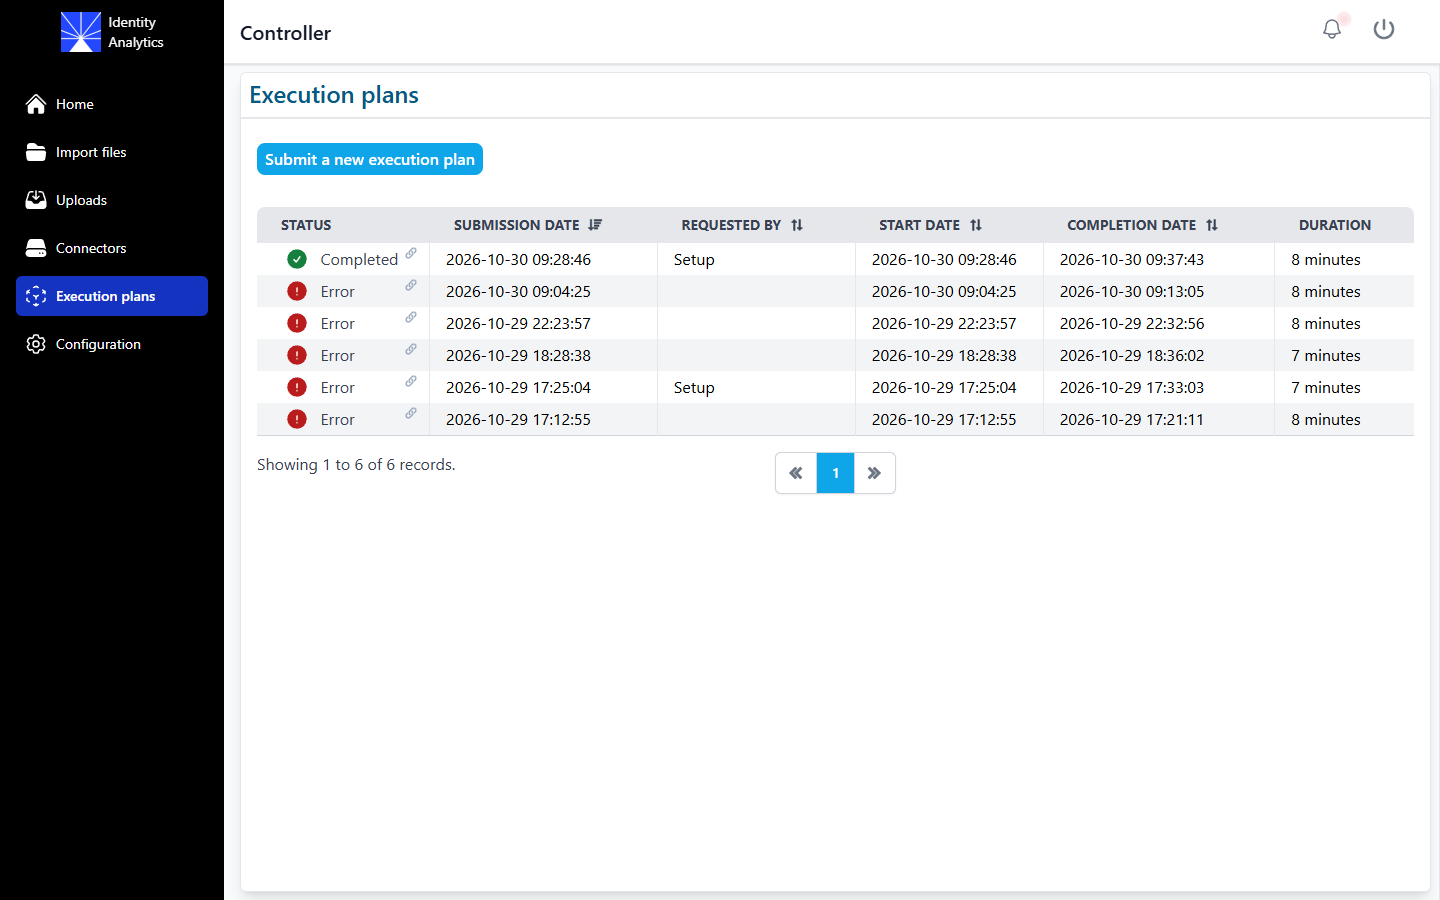
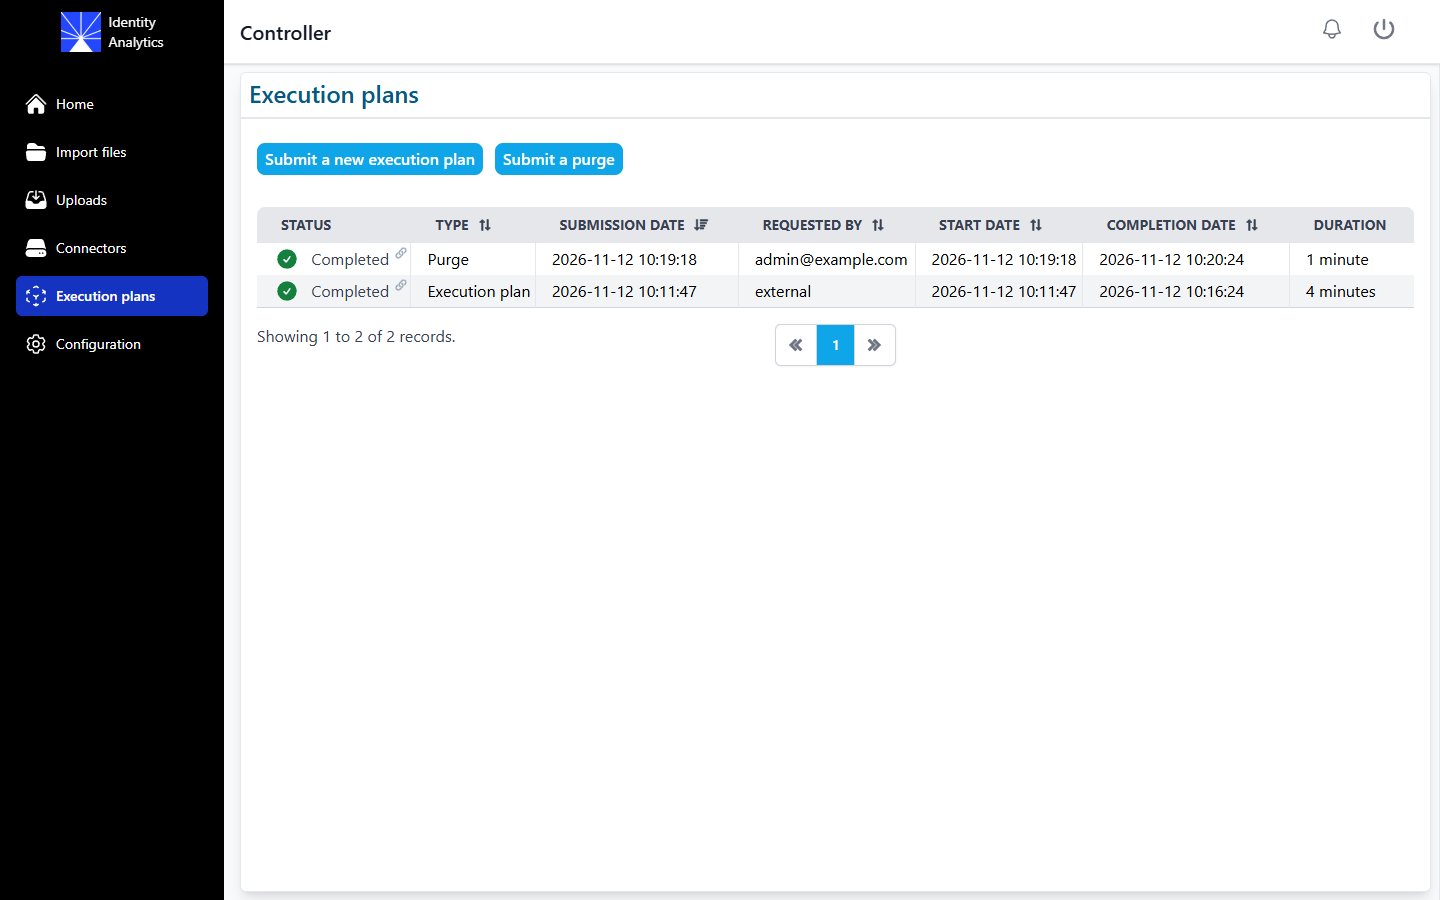
SQ-2141: Document the 3.8 purge, database checks and project synchronization
Checked on IDA 3.8.0 / Shared Services 3.6.0, with new screenshots.

- Configuration interface: Purge page, purge scheduling (UTC), Database
  pages (Health Check, Maintenance; built-in database only, restart of
  ops-manager when they show "not available"), Project synchronization
  on the Git Project page, purge settings in "Which setting wins".
- Controller: Submit a purge, Type column, Error vs Aborted, one run at
  a time, notifications for purges.
- Data loading: execution plan API, not published by default.

Changed region(s): [[0.1875, 0.1556, 0.875, 0.56], [0.9062, 0.2178, 0.9688, 0.4978], [0.4688, 0.4044, 0.5, 0.4356]]

diff --git a/documentation/igrc-platform/self-managed/06-configuration/01-config-ui.md b/documentation/igrc-platform/self-managed/06-configuration/01-config-ui.md
@@ -5,7 +5,7 @@ description: Use the configuration interface of a Self-Managed Identity Analytic
 
 # Identity Analytics configuration interface
 
-The configuration interface holds the functional and technical settings of an instance that are not set by the Helm values: the project repository, the emails of the portal and the batch, the schedules, the Identity Data Management connection and the portal debugging.
+The configuration interface holds the functional and technical settings of an instance that are not set by the Helm values: the project repository, the emails of the portal and the batch, the purge of the timeslots, the schedules, the database checks, the Identity Data Management connection and the portal debugging.
 
 ## First connection
 
@@ -27,6 +27,7 @@ Some settings can be set both in the Helm values and in the configuration interf
 | Git repository of the project | Values `git.default.*` | The values are written again and an immediate Git synchronisation is triggered. |
 | Other Git repository selected in the configuration interface | Configuration interface | Kept: the instance keeps using the repository selected in the interface. |
 | Git synchronisation schedule | Values `gitServer.defaultCron`, first installation only | Not written again. See [Project changes](../11-operations/05-project-changes.md). |
+| Purge settings and purge schedule | Values `purge.*` and `scheduling.purge.cron`, first installation only | Not written again: change them on the **Purge** and **Scheduling** pages. |
 | Identity Data Management (RadiantOne) connection | Values, first installation only | Not written again: later changes made in the configuration interface are kept. |
 | License | Values `global.license` (base64), or `global.licenseFile` | The values are applied: to renew the license, run `helm upgrade` with the new license. `global.license` wins over `global.licenseFile`: if your values file contains `global.license`, replace it there. The portal, the batch and the configuration service restart and load it. |
 | CPU, memory and Java heap of the pods | Values (`resources`, `jvm.memory` of each component) | The values are applied. |
@@ -49,7 +50,7 @@ The header of every page has three controls:
 
 ![Configuration home page](images/config-interface/config-ui-home.png "Configuration home page")
 
-The home page shows one tile per page: **Git Project**, **Mail**, **Batch**, **Scheduling**, **Identity Data Management** and **Portal**. A tile shows a warning when its page has missing or invalid settings.
+The home page shows one tile per page: **Database**, **Git Project**, **Mail**, **Batch**, **Purge**, **Scheduling**, **Identity Data Management** and **Portal**. A tile shows a warning when its page has missing or invalid settings.
 
 ## Git Project
 
@@ -67,6 +68,8 @@ This page selects the Git repository of the project.
 - **Username**: the account used to read the repository. The password is requested when you click **Test and save**.
 - **Project directory**: the folder of the repository that contains the project, `brainwave` by default.
 - **Connection test** checks the connection to the branch with these settings. **Test and save** runs the same test and saves the settings only if it succeeds.
+
+**Project synchronization** fetches the project from the repository on a schedule. **Sync now** fetches it at once. **Last synchronized at** shows the commit of the last synchronization. The portal keeps running the version it started with: click **Restart portal** to load the new version.
 
 See [Project repository](../02-prerequisites.md#project-repository) for the available repositories and credentials.
 
@@ -86,6 +89,15 @@ This page controls the emails sent by the portal and the batch. The SMTP server 
 
 **Technical Configuration Name** is the technical configuration of the project used to run the execution plans (`docker` by default).
 
+## Purge
+
+![Purge page](images/config-interface/config-ui-purge.png "Purge page")
+
+This page sets what a purge deletes. It does not start a purge: start one from the controller (**Execution plans**, **Submit a purge**) or on a schedule (**Scheduling** page).
+
+- **Type**: **Purge policy** applies the retention policy of the project; **Legacy arguments** keeps a number of timeslots or days, or deletes the timeslots in given states. It applies to purges started outside an execution plan.
+- **After a scheduled execution plan**: **Purge hidden timeslots** and **Apply the purge policy**, both on by default. Uncheck them so that a scheduled plan does not purge. An execution plan started by hand never purges.
+
 ## Scheduling
 
 ![Scheduling page](images/config-interface/config-ui-scheduling-enabled.png "Scheduling page")
@@ -95,7 +107,10 @@ Each switch enables a recurring task; set its frequency with **Every** (day or h
 - **batch scheduling**: starts an execution plan.
 - **Extraction scheduling**: runs the connectors declared in the portal.
 - **Portal update scheduling**: restarts the portal, so that it loads the last synchronised version of the project (see [Project changes](../11-operations/05-project-changes.md)).
+- **Purge scheduling**: starts a purge, with the settings of the **Purge** page.
 - **Secure portal stop timeout (ms)**: when the portal stops, the time given to the ongoing tasks to complete before the portal is forced to stop.
+
+The times are in UTC: the page shows the current time in UTC and on your computer.
 
 > [!note] Spread the schedules so that they do not overlap: an execution plan can take a long time, and the portal should not restart during a plan.
 
@@ -117,3 +132,17 @@ The settings of this page are saved only when the corresponding test succeeds.
 ![Portal page](images/config-interface/config-ui-portal.png "Portal page")
 
 **Enable portal debugging** displays the debug context in the portal pages. Do not enable it in production.
+
+## Database
+
+These pages are available with the built-in database only. With an external database, they are hidden: your DBA maintains the database.
+
+![Database health check page](images/config-interface/config-ui-db-check.png "Database health check page")
+
+- **Health Check**: **Run a check** takes a read-only snapshot of the analytics database (volumetry, index usage, settings, blocked queries). **Explore** opens the report; the download icon saves it. One check runs at a time.
+
+![Run maintenance confirmation](images/config-interface/config-ui-db-maintenance-confirm.png "Run maintenance confirmation")
+
+- **Maintenance**: **Run maintenance** runs `VACUUM ANALYZE` on the tables of the project, and optionally `VACUUM FULL` and `REINDEX`, then keeps a before/after report. `VACUUM FULL` locks each table while it rewrites it: run it when no execution plan runs and the portal is little used.
+
+> [!note] If these pages show "not available in this deployment" with the built-in database, restart the operations manager: `kubectl rollout restart deployment/ops-manager -n <IDA_NAMESPACE>`.

diff --git a/documentation/igrc-platform/self-managed/09-components/controller.md b/documentation/igrc-platform/self-managed/09-components/controller.md
@@ -61,11 +61,15 @@ Click a connector to open its details:
 
 ![Execution plans page](images/controller-execution-plans.png "Execution plans page")
 
-This page lists the execution plans, with their status, their submission, start and completion dates, their duration and the user who requested them.
+This page lists the execution plans and the purges, with their status, their type (**Execution plan** or **Purge**), their submission, start and completion dates, their duration and who requested them.
 
-- **Submit a new execution plan** starts an execution plan immediately with the current import files, without confirmation. The button is hidden while a plan is submitted or running. You can also start a plan from the portal (**Datasource Management**, **Launch an execution plan**).
-- While a plan is running, the orange square button aborts it.
-- The status of a plan is **Submitted** (the batch has not started yet), **Running**, **Completed**, **Error** or **Aborted**.
+- **Submit a new execution plan** starts an execution plan immediately with the current import files, without confirmation. You can also start a plan from the portal (**Datasource Management**, **Launch an execution plan**).
+- **Submit a purge** starts a purge of the timeslots. The form is filled with the settings of the configuration interface (**Purge** page, see [Purge](../06-configuration/01-config-ui.md#purge)); a change applies to this run only.
+
+    ![Submit a purge](images/controller-submit-purge.png "Submit a purge")
+
+- An execution plan and a purge cannot run at the same time: while one runs, the page asks you to wait until it finishes or to abort it. The orange square button aborts it.
+- The status is **Submitted** (the batch has not started yet), **Running**, **Completed**, **Error** (the run failed) or **Aborted** (stopped by a user; no email is sent).
 
 Click the link icon next to a finished plan to open its details:
 
@@ -87,7 +91,7 @@ The bell icon of the header opens the list of the events of the controller: uplo
 
 ![Notifications configuration](images/controller-config-notifications.png "Notifications configuration")
 
-Enter the email addresses to notify when an execution plan succeeds, when it fails, and when an extraction fails. Type an address and click (+) to add it. The controller sends these emails only if SMTP is enabled.
+Enter the email addresses to notify when an execution plan or a purge succeeds, when it fails, and when an extraction fails. Type an address and click (+) to add it. The controller sends these emails only if SMTP is enabled.
 
 ### Email server
 

diff --git a/documentation/igrc-platform/self-managed/06-configuration/06-data-loading.md b/documentation/igrc-platform/self-managed/06-configuration/06-data-loading.md
@@ -54,6 +54,8 @@ Start an execution plan in one of these ways:
 - in the portal, **Datasource Management**, **Status**, **Launch an execution plan**, then confirm;
 - on a schedule, in the **Scheduling** page of the configuration interface.
 
+Starting a plan from a script uses the execution plan API of the operations manager, not published by default: see [ADD-006](../11-operations/04-upgrade/migration-3.8.0.md#add-006-standalone-timeslot-purge-and-post-plan-opt-out).
+
 The plan downloads the last synchronised version of the project, takes the current import files, runs the collection and loads a new timeslot. Follow it in the controller: its status goes from **Submitted** to **Running**, then **Completed** or **Error**. The details page of the plan gives its message and **Download execution logs**. See [Controller](../09-components/controller.md).
 
 To be notified by email at the end of each plan, add recipients in the controller (**Configuration**, **Notifications**).
